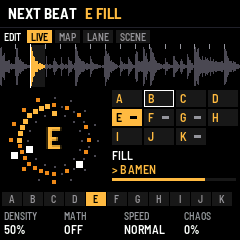
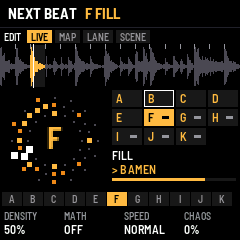
MATHCORE: better fills, triplet snare rolls, a snare-heavy groove
Laurens: better fills, rollers with triplet snares, one with more snares.

- scenes reworked (MCS5): SNARE ROLLER (triplet hats, a triplet snare roll every
  second bar), SNARES (snares everywhere, a roll every bar), FILL (builds into a
  beat of triplet snares), TRIPLET ROLL, SNARE RUSH (8ths to 64ths), CHOP FILL,
  TRIPLET ROLLER, plus the grooves, riser and drop
- triplet rolls: a snare lane at 1/8 with ratchet x3; the PERC lane can be a
  second snare lane
- a roll owns the break's voice until it ends: hats can't cut it; it wins ties
- SWELL: a lane climbs and swells without speeding up

Claude-Session: https://claude.ai/code/session_01YWuRNtShpoWxrtcHmPbuCP

diff --git a/app/app.c b/app/app.c
@@ -274,7 +274,7 @@ static void pat_read_back(void)          /* the engine's steps into the pattern 
 /* ----------------------------------------------------------------- MATHCORE --- */
 /* the scenes (A..P: four sample lanes each, docs/PRD_MATHCORE.md 6.1) in their own store object; the queue and the
  * black keys' shortcuts in another (the queue names scenes: one scene, queued as often as wanted) */
-#define MCS_MAGIC 0x3453434Du            /* "MCS4" (the lanes vary by themselves, 23 Nov 2026: the presets again) */
+#define MCS_MAGIC 0x3553434Du            /* "MCS5" (more fills, triplet snare rolls, 23 Nov 2026: the presets again) */
 #define MQ_MAGIC 0x3151434Du             /* "MCQ1" */
 #define MC_QUEUE 64u
 #define MC_NOKEY 0xFFu                   /* a black key with no scene */
@@ -318,62 +318,103 @@ static void mc_lane_defaults(mc_lane_t *l, uint32_t role)
  * from the black keys. A lane is a string: x a hit, X an accented one, . none (its length the string's). They re-cut
  * the break on its own voice: the grooves run on into the break between their hits (MCS_BREAK), the fills, the riser
  * and the drop are dry chops; L..P are the grooves dry */
-static const char *const MC_NAME[] = {"", "ROLLER", "AMEN", "STEPPER", "MATH 5/7", "FILL", "CHOP FILL", "RISER",
-                                      "BREAKDOWN", "DOUBLE", "7/8 BOUNCE", "DROP", "ROLLER CHOP", "AMEN CHOP",
-                                      "MATH CHOP", "DOUBLE CHOP", "BOUNCE CHOP"};
+static const char *const MC_NAME[] = {"", "ROLLER", "AMEN", "SNARE ROLLER", "SNARES", "MATH 5/7", "FILL",
+                                      "TRIPLET ROLL", "SNARE RUSH", "CHOP FILL", "RISER", "DROP", "STEPPER",
+                                      "DOUBLE", "7/8 BOUNCE", "BREAKDOWN", "TRIPLET ROLLER"};
 #define MC_NNAMES (sizeof MC_NAME / sizeof MC_NAME[0])
 typedef struct {
-    uint8_t name, bars, flags;
+    uint8_t bars, flags;
+    uint8_t prole;                       /* the PERC lane's role + 1 (0: PERC): a second snare lane for the rolls */
     struct {
         const char *p;                   /* 0: the lane off */
         uint8_t rate, mode, prob, ratchet, level;
         int8_t rise;
-        uint8_t rev;
+        uint8_t fl;                      /* MCL_REV, MCL_SWELL */
     } l[MC_LANES];
 } mc_preset_t;
-#define L_(p, r, m, pr, ra, lv, ri, rv) {p, r, m, pr, ra, lv, ri, rv}
+#define L_(p, r, m, pr, ra, lv, ri, f) {p, r, m, pr, ra, lv, ri, f}
 #define OFF_ {0, MCR_16, 0, 100, 1, 100, 0, 0}
-static const mc_preset_t MC_PRESET[11] = {
-    {1, 2, MCS_BREAK, {L_("X.........X.....", MCR_16, MCM_FIXED, 100, 1, 100, 0, 0),
-               L_("....X.......X...", MCR_16, MCM_ALT, 100, 1, 100, 0, 0),
-               L_("X.xxX.x.X.xxX.xx", MCR_16, MCM_ROUND, 100, 1, 80, 0, 0),
-               L_("..............x.", MCR_16, MCM_ROUND, 60, 1, 70, 0, 0)}},
-    {2, 2, MCS_BREAK, {L_("X.X.......XX....", MCR_16, MCM_FIXED, 100, 1, 100, 0, 0),
-               L_("....X..x.x..X..x", MCR_16, MCM_ACCENT, 100, 1, 100, 0, 0),
-               L_("XxxxXxxxXxxxXxXx", MCR_16, MCM_ROUND, 90, 1, 75, 0, 0), OFF_}},
-    {3, 2, MCS_BREAK, {L_("X.........X.....X.....X.........", MCR_16, MCM_FIXED, 100, 1, 100, 0, 0),
-               L_("........X...............X.......", MCR_16, MCM_FIXED, 100, 1, 100, 0, 0),
-               L_("X.x.X.xxX.x.X.xx", MCR_16, MCM_ROUND, 100, 1, 75, 0, 0),
-               L_("...x.......x..x.", MCR_16, MCM_RANDOM, 50, 1, 70, 0, 0)}},
-    {4, 4, MCS_BREAK, {L_("X..x.", MCR_16, MCM_FIXED, 100, 1, 100, 0, 0),
-               L_("....X..", MCR_16, MCM_ALT, 100, 1, 100, 0, 0),
-               L_("x.xx.x.xx.x", MCR_32, MCM_RANDOM, 100, 1, 65, 0, 0),
-               L_("x..x..x..x.x.", MCR_16, MCM_ROUND, 100, 1, 80, 0, 0)}},
-    {5, 1, MCS_ONCE, {L_("X...............", MCR_16, MCM_FIXED, 100, 1, 100, 0, 0),
-                      L_("x.x.x.x.x.x.x.x.xxxxxxxxXXXXXXXX", MCR_32, MCM_ACCENT, 100, 1, 100, 3, 0),
-                      OFF_,
-                      L_("........x.x.xxxx", MCR_16, MCM_ROUND, 100, 2, 80, 0, 0)}},
-    {6, 1, MCS_ONCE, {L_("X..X..X..X..X.X.", MCR_16, MCM_FIXED, 100, 1, 100, 0, 0),
-                      L_("..X..X..X..X.XXX", MCR_16, MCM_RANDOM, 85, 2, 100, 0, 0),
-                      L_("xxxxxxxxxxxxxxxxxxxxxxxx", MCR_32T, MCM_RANDOM, 60, 1, 70, 0, 0), OFF_}},
-    {7, 4, MCS_ONCE, {L_("X...X...X.X.XXXX", MCR_4, MCM_FIXED, 100, 1, 100, 0, 0),
-                      L_("X", MCR_8, MCM_ROUND, 100, 1, 100, 12, 0),
-                      L_("x", MCR_8, MCM_ROUND, 100, 1, 60, 7, 0), OFF_}},
-    {8, 4, MCS_BREAK, {L_("X...............X...............", MCR_8, MCM_FIXED, 100, 1, 100, 0, 0), OFF_,
-                       L_("x..", MCR_8T, MCM_ROUND, 100, 1, 55, 0, 0),
-                       L_("x....", MCR_8, MCM_RANDOM, 100, 1, 60, 0, 0)}},
-    {9, 2, MCS_BREAK, {L_("X..X..X.", MCR_16, MCM_FIXED, 100, 1, 100, 0, 0),
-               L_("....X..x....X.x.", MCR_16, MCM_ALT, 100, 1, 100, 0, 0),
-               L_("XxxxXxxXxxXxXxxx", MCR_32, MCM_ROUND, 100, 1, 70, 0, 0),
-               L_("x.....", MCR_16T, MCM_ROUND, 100, 1, 75, 0, 0)}},
-    {10, 2, MCS_BREAK, {L_("X..X.X.", MCR_16, MCM_FIXED, 100, 1, 100, 0, 0),
-                L_("...X......X...", MCR_16, MCM_FIXED, 100, 1, 100, 0, 0),
-                L_("x.xx.xx.xx.x", MCR_16T, MCM_RANDOM, 100, 1, 70, 0, 0),
-                L_("x...x.x..", MCR_16, MCM_ROUND, 70, 1, 75, 0, 0)}},
-    {11, 1, MCS_ONCE, {L_("X...............", MCR_16, MCM_FIXED, 100, 1, 100, 0, 0),
-                       L_("X...............", MCR_16, MCM_FIXED, 100, 1, 100, 0, 0), OFF_,
-                       L_("........X.......", MCR_16, MCM_FIXED, 100, 1, 100, 0, 1)}},
+#define SN_ (ROLE_SNARE + 1u)
+#define RUN MCS_BREAK
+#define ONCE MCS_ONCE
+/* A..K on the black keys: five grooves, four fills, the riser, the drop; L..P more grooves (SCENE puts them on a
+ * key). The triplet rolls are a snare lane at 1/8 with ratchet x3: each of its hits three 1/16T snares. A fill keeps
+ * its climax in its second half: launched late in a bar (it plays from where the bar is) it still lands */
+static const mc_preset_t MC_PRESET[MC_SCENES] = {
+    /* A ROLLER */
+    {2, RUN, 0, {L_("X.........X.....", MCR_16, MCM_FIXED, 100, 1, 100, 0, 0),
+                 L_("....X.......X...", MCR_16, MCM_ALT, 100, 1, 100, 0, 0),
+                 L_("X.xxX.x.X.xxX.xx", MCR_16, MCM_ROUND, 100, 1, 80, 0, 0),
+                 L_("..............x.", MCR_16, MCM_ROUND, 60, 1, 70, 0, 0)}},
+    /* B AMEN */
+    {2, RUN, 0, {L_("X.X.......XX....", MCR_16, MCM_FIXED, 100, 1, 100, 0, 0),
+                 L_("....X..x.x..X..x", MCR_16, MCM_ACCENT, 100, 1, 100, 0, 0),
+                 L_("XxxxXxxxXxxxXxXx", MCR_16, MCM_ROUND, 90, 1, 75, 0, 0), OFF_}},
+    /* C SNARE ROLLER: a shuffling roller, a triplet snare roll closing every second bar (and a pickup roll) */
+    {2, RUN, SN_, {L_("X.........X.....X.........X.x...", MCR_16, MCM_FIXED, 100, 1, 100, 0, 0),
+                   L_("....X.......X...", MCR_16, MCM_ALT, 100, 1, 100, 0, 0),
+                   L_("X.xX.xX.xX.xX.xX.xX.xX.x", MCR_16T, MCM_ROUND, 100, 1, 70, 0, 0),
+                   L_("...........x..XX", MCR_8, MCM_ROUND, 100, 3, 85, 0, 0)}},
+    /* D SNARES: snares everywhere, round all the break's snare hits, a triplet roll every bar's end */
+    {2, RUN, SN_, {L_("X.........X.....", MCR_16, MCM_FIXED, 100, 1, 100, 0, 0),
+                   L_("..x.X.xx.xx.X.xx", MCR_16, MCM_ROUND, 100, 1, 100, 0, 0),
+                   L_("X...x...X...x...", MCR_16, MCM_ROUND, 100, 1, 60, 0, 0),
+                   L_("......xX", MCR_8, MCM_ACCENT, 100, 3, 90, 0, 0)}},
+    /* E MATH 5/7 */
+    {4, RUN, 0, {L_("X..x.", MCR_16, MCM_FIXED, 100, 1, 100, 0, 0),
+                 L_("....X..", MCR_16, MCM_ALT, 100, 1, 100, 0, 0),
+                 L_("x.xx.x.xx.x", MCR_32, MCM_RANDOM, 100, 1, 65, 0, 0),
+                 L_("x..x..x..x.x.", MCR_16, MCM_ROUND, 100, 1, 80, 0, 0)}},
+    /* F FILL: two beats of groove, a beat building in triplets, a beat of full triplet snares, climbing */
+    {1, ONCE, 0, {L_("X.......X.......", MCR_16, MCM_FIXED, 100, 1, 100, 0, 0),
+                  L_("x..x..X..x.xx.xXxxXxXXXX", MCR_16T, MCM_ACCENT, 100, 1, 100, 4, MCL_SWELL),
+                  OFF_,
+                  L_("........x.x..x.x", MCR_16, MCM_ROUND, 100, 1, 70, 0, 0)}},
+    /* G TRIPLET ROLL: a bar of triplet snares, swelling and climbing a fourth */
+    {1, ONCE, 0, {L_("X...............", MCR_16, MCM_FIXED, 100, 1, 100, 0, 0),
+                  L_("xxxxXXXX", MCR_8, MCM_ACCENT, 100, 3, 100, 5, MCL_SWELL), OFF_, OFF_}},
+    /* H SNARE RUSH: one snare an 8th, then 16ths, 32nds, 64ths: the classic roll into the drop */
+    {1, ONCE, 0, {L_("X...............", MCR_16, MCM_FIXED, 100, 1, 100, 0, 0),
+                  L_("X", MCR_8, MCM_ROUND, 100, 1, 100, 7, 0), OFF_, OFF_}},
+    /* I CHOP FILL: 3-3-3-3-2-2 cuts, snares answering with flams */
+    {1, ONCE, 0, {L_("X..X..X..X..X.X.", MCR_16, MCM_FIXED, 100, 1, 100, 0, 0),
+                  L_("..X..X..X..X.XXX", MCR_16, MCM_ROUND, 100, 2, 100, 0, 0),
+                  L_("x.x.x.x.x.x.x.x.x.x.x.x.", MCR_16T, MCM_RANDOM, 60, 1, 60, 0, 0), OFF_}},
+    /* J RISER: 4 bars, the snares from 1/8 to 1/64, the hats behind them */
+    {4, ONCE, 0, {L_("X...X...X.X.XXXX", MCR_4, MCM_FIXED, 100, 1, 100, 0, 0),
+                  L_("X", MCR_8, MCM_ROUND, 100, 1, 100, 12, 0),
+                  L_("x", MCR_8, MCM_ROUND, 100, 1, 60, 7, 0), OFF_}},
+    /* K DROP: one hit, a slice backwards into the space */
+    {1, ONCE, 0, {L_("X...............", MCR_16, MCM_FIXED, 100, 1, 100, 0, 0),
+                  L_("X...............", MCR_16, MCM_FIXED, 100, 1, 100, 0, 0), OFF_,
+                  L_("........X.......", MCR_16, MCM_FIXED, 100, 1, 100, 0, MCL_REV)}},
+    /* L STEPPER (half time) */
+    {2, RUN, 0, {L_("X.........X.....X.....X.........", MCR_16, MCM_FIXED, 100, 1, 100, 0, 0),
+                 L_("........X...............X.......", MCR_16, MCM_FIXED, 100, 1, 100, 0, 0),
+                 L_("X.x.X.xxX.x.X.xx", MCR_16, MCM_ROUND, 100, 1, 75, 0, 0),
+                 L_("...x.......x..x.", MCR_16, MCM_RANDOM, 50, 1, 70, 0, 0)}},
+    /* M DOUBLE: 3-3-2 kicks, 1/32 hats */
+    {2, RUN, 0, {L_("X..X..X.", MCR_16, MCM_FIXED, 100, 1, 100, 0, 0),
+                 L_("....X..x....X.x.", MCR_16, MCM_ALT, 100, 1, 100, 0, 0),
+                 L_("XxxxXxxXxxXxXxxx", MCR_32, MCM_ROUND, 100, 1, 70, 0, 0),
+                 L_("x.....", MCR_16T, MCM_ROUND, 100, 1, 75, 0, 0)}},
+    /* N 7/8 BOUNCE */
+    {2, RUN, 0, {L_("X..X.X.", MCR_16, MCM_FIXED, 100, 1, 100, 0, 0),
+                 L_("...X......X...", MCR_16, MCM_FIXED, 100, 1, 100, 0, 0),
+                 L_("x.xx.xx.xx.x", MCR_16T, MCM_RANDOM, 100, 1, 70, 0, 0),
+                 L_("x...x.x..", MCR_16, MCM_ROUND, 70, 1, 75, 0, 0)}},
+    /* O BREAKDOWN: a sparse pulse, the break running on between */
+    {4, RUN, 0, {L_("X...............X...............", MCR_8, MCM_FIXED, 100, 1, 100, 0, 0), OFF_,
+                 L_("x..", MCR_8T, MCM_ROUND, 100, 1, 55, 0, 0),
+                 L_("x....", MCR_8, MCM_RANDOM, 100, 1, 60, 0, 0)}},
+    /* P TRIPLET ROLLER: all in triplets, a triplet snare roll every second bar */
+    {2, RUN, SN_, {L_("X.....X..X..X.....X.X...", MCR_8T, MCM_FIXED, 100, 1, 100, 0, 0),
+                   L_("...X.....X..", MCR_8T, MCM_ALT, 100, 1, 100, 0, 0),
+                   L_("X.xX.xX.xX.xX.xX.xX.xX.x", MCR_16T, MCM_ROUND, 100, 1, 70, 0, 0),
+                   L_("..............XX", MCR_8, MCM_ACCENT, 100, 3, 90, 0, 0)}},
 };
+#undef RUN
+#undef ONCE
 static void mc_lane_from(mc_lane_t *L, const char *p)   /* a lane's hits and accents from its string */
 {
     uint32_t e;
@@ -388,19 +429,19 @@ static void mc_lane_from(mc_lane_t *L, const char *p)   /* a lane's hits and acc
 }
 static void mc_scene_defaults(mc_scene_t *s, uint32_t i)
 {
-    const mc_preset_t *p = &MC_PRESET[i < 11u ? i : i == 11u ? 0u : i == 12u ? 1u : i == 13u ? 3u : i == 14u ? 8u : 9u];
+    const mc_preset_t *p = &MC_PRESET[i % MC_SCENES];
     uint32_t l;
     s->bars = p->bars;
-    s->flags = (uint8_t)(i >= 11u ? p->flags & ~MCS_BREAK : p->flags);   /* L..P: the grooves, dry chops */
-    s->name = (uint8_t)(i < 11u ? p->name : 12u + (i - 11u));
+    s->flags = p->flags;
+    s->name = (uint8_t)(i % MC_SCENES + 1u);
     s->rsv = 0u;
     for (l = 0; l < MC_LANES; l++) {
         mc_lane_t *L = &s->lane[l];
-        mc_lane_defaults(L, l);
+        mc_lane_defaults(L, l == 3u && p->prole ? p->prole - 1u : l);
         if (!p->l[l].p)
             continue;
         mc_lane_from(L, p->l[l].p);
-        L->flags = (uint8_t)(MCL_ON | (p->l[l].rev ? MCL_REV : 0u));
+        L->flags = (uint8_t)(MCL_ON | p->l[l].fl);
         L->rate = p->l[l].rate;
         L->mode = p->l[l].mode;
         L->prob = p->l[l].prob;
@@ -408,12 +449,13 @@ static void mc_scene_defaults(mc_scene_t *s, uint32_t i)
         L->level = p->l[l].level;
         L->rise = p->l[l].rise;
         L->seed = (uint8_t)(L->seed + i * 13u);
-        if (L->rise)
-            L->vary = 0u;                /* (a riser stays a riser) */
+        if (L->rise || L->ratchet > 2u)
+            L->vary /= 3u;               /* (a roll or a riser stays one: a touch of velocity only) */
         else if (p->flags & MCS_ONCE)
             L->vary /= 2u;               /* (a fill is busy already) */
     }
 }
+
 static void mc_defaults(void)
 {
     uint32_t i;

diff --git a/app/dsp/brk.c b/app/dsp/brk.c
@@ -572,7 +572,8 @@ static int loop_sounds(void)
     return mc_cur < 0 || !sc || (sc[mc_cur].flags & MCS_BREAK);
 }
 
-static uint8_t mr_flags[MC_LANES], mr_gate[MC_LANES];
+static uint8_t mr_flags[MC_LANES], mr_gate[MC_LANES], mr_score[MC_LANES];
+static uint32_t mr_hold[MC_LANES];       /* a roll (a ratchet) owns the voice until this master tick */
 static float mr_pitch[MC_LANES];
 /* slice s on the break's voice (the one sound playing, its fade the cut): at gain, backwards, gate % of it, at pitch
  * semitones; it runs on into the break when the scene asks (loop_sounds), else it ends with its slice. A key looping
@@ -647,6 +648,7 @@ static void mc_begin(int32_t s)          /* scene s from this step */
         if (!sc || mc_cur < 0 || !(sc[mc_cur].lane[l].flags & MCL_FREE))
             mc_n[l] = 0u;
         mr_count[l] = 0u;
+        mr_hold[l] = 0u;
     }
 }
 
@@ -718,7 +720,7 @@ static void mc_tick(const brk_break_t *b, uint32_t t, float sl)
             r *= 2u;
         else if (spd > 66u && r > 4u)
             r /= 2u;
-        if (L->rise) {                   /* a riser: faster each quarter of the phrase */
+        if (L->rise && !(L->flags & MCL_SWELL)) {   /* a riser: faster each quarter of the phrase */
             uint32_t q = (mc_steps ? mc_steps - 1u : 0u) * 4u / (bars_of(sc) * BRK_STEPS_PER_BAR);
             r >>= q > 3u ? 3u : q;
             if (r < 3u)
@@ -809,7 +811,8 @@ static void mc_tick(const brk_break_t *b, uint32_t t, float sl)
         }
         mc_hitc[l]++;                    /* (each lane's event counts; one of them is heard) */
         {
-            uint32_t sc_ = ghost ? 0u : (acc ? 8u : 0u) + PRIO[role];   /* (a ghost never cuts a real hit) */
+            uint32_t sc_ = ghost ? 0u : (acc ? 16u : 0u) + PRIO[role] * 2u + (rat > 1u);   /* (a ghost never cuts
+                                          * a real hit; a roll wins over a single hit of the same weight) */
             if (sc_ > win_score || win < 0) {
                 win = (int32_t)l;
                 win_score = sc_;
@@ -825,7 +828,11 @@ static void mc_tick(const brk_break_t *b, uint32_t t, float sl)
     }
     if (win < 0)
         return;
+    for (k = 0; k < MC_LANES; k++)       /* a roll (a ratchet) under way outranks a lighter hit: it rolls on */
+        if (mr_hold[k] > t && mr_score[k] > win_score)
+            return;
     l = (uint32_t)win;                   /* the one heard: the break's voice cut to it */
+    mr_score[l] = (uint8_t)win_score;
     mr_flags[l] = win_fl;
     mr_gate[l] = (uint8_t)(sc->lane[l].gate ? sc->lane[l].gate : 100u);
     mr_pitch[l] = win_pt;
@@ -833,6 +840,7 @@ static void mc_tick(const brk_break_t *b, uint32_t t, float sl)
         mr_count[k] = 0u;
     if (win_late >= 1.0f && win_rat < 2u) {   /* laid back: the hit a little later (the ratchet's timer) */
         mr_count[l] = 1u;
+        mr_hold[l] = 0u;
         mr_left[l] = mr_len[l] = win_late;
         mr_slice[l] = win_s;
         mr_gain[l] = win_g;
@@ -840,6 +848,7 @@ static void mc_tick(const brk_break_t *b, uint32_t t, float sl)
     }
     chop_hit(b, win_s, win_g, (win_fl & MCL_REV) != 0u, mr_gate[l], win_pt);
     mr_count[l] = win_rat > 1u ? (win_rat > 4u ? 3u : win_rat - 1u) : 0u;
+    mr_hold[l] = mr_count[l] ? t + win_r : 0u;
     if (mr_count[l]) {                   /* the event's other hits, evenly inside it */
         mr_len[l] = (float)win_r * (1.0f / (float)MC_TICKS) * sl / (float)(mr_count[l] + 1u);
         mr_left[l] = mr_len[l];
@@ -1386,6 +1395,7 @@ BRK_COLD void brk_init(void)
         uint32_t l;
         for (l = 0; l < MC_LANES; l++) {
             mr_count[l] = 0u;
+            mr_hold[l] = 0u;
             mc_n[l] = 0u;
             mc_pos[l] = 0u;
         }

diff --git a/tests/engine/test_engine.c b/tests/engine/test_engine.c
@@ -2241,6 +2241,38 @@ static void test_mc_play(void)
         brk_play(0);
         mc_run(BLOCK * 8u, 0, 0);
     }
+    /* a triplet roll: a snare lane at 1/8 with ratchet x3 under hats at 1/16T: 24 snare hits a bar, the hats
+     * between never cutting it short; SWELL climbs without speeding up */
+    {
+        uint32_t snares = 0u, last = 0u, t2, rolls;
+        mc_scene_init(&mc_sc[5], 1u);
+        mc_sc[5].lane[1].flags = MCL_ON | MCL_SWELL;
+        mc_sc[5].lane[1].hits = 0xFFu;
+        mc_sc[5].lane[1].len = 8u;
+        mc_sc[5].lane[1].rate = MCR_8;
+        mc_sc[5].lane[1].ratchet = 3u;
+        mc_sc[5].lane[1].rise = 5;
+        mc_sc[5].lane[2].flags = MCL_ON;
+        mc_sc[5].lane[2].hits = 0xFFFFFFu;
+        mc_sc[5].lane[2].len = 24u;
+        mc_sc[5].lane[2].rate = MCR_16T;
+        brk_mc_start(5);
+        brk_mc_next(5);
+        mc_zero_counts();
+        brk_play(1);
+        for (t2 = 0; t2 < 16u * sl; t2 += 64u) {   /* the voice's slice every 64 samples: a snare's */
+            mc_run(64u, 0, 0);
+            brk_status(&st);
+            snares += st.slice >= 0 && (r[st.slice] >> ROLE_SNARE & 1u);
+            last++;
+        }
+        CHECK(snares * 100u >= last * 97u, "triplet roll: the hats never cut it (%u of %u looks a snare)", snares, last);
+        mc_count();
+        rolls = mc_hits_total[1];
+        CHECK(rolls == 8u, "triplet roll: 8 events a bar (x3: 24 triplet snares), SWELL not speeding up (%u)", rolls);
+        brk_play(0);
+        mc_run(BLOCK * 8u, 0, 0);
+    }
     /* VARY: a snare lane on 5 and 13 grows ghost notes round them, never the same bar twice, the same run twice */
     {
         static float a1[4u * 44100u], a2[4u * 44100u];

diff --git a/app/dsp/brk.h b/app/dsp/brk.h
@@ -164,6 +164,8 @@ extern const char *const MC_MODE_NAME[MC_MODES];
 #define MCL_ON 1u                        /* the lane plays in its scene */
 #define MCL_REV 2u                       /* its slices backwards */
 #define MCL_FREE 4u                      /* it counts from the transport's start, not the scene's (no reset) */
+#define MCL_SWELL 8u                     /* its RISE climbs and swells over the phrase without speeding up (a roll
+                                          * that builds) */
 typedef struct {
     uint32_t hits;                       /* bit e: an event at e */
     uint32_t accent;                     /* bit e: e accented (no accents at all: every hit full) */

diff --git a/README.md b/README.md
@@ -62,7 +62,7 @@ device; MATHCORE ([its PRD](docs/PRD_MATHCORE.md)) is on the `mathcore` branch, 
 | LFO | **MIXER**: K1 break level · K4 **FX** (the whole effects chain, dry to wet), with meters · **LFO again**: K1 swing |
 | ARP | **EFFECT PADS**: the white keys play slices, each black key holds an effect of the FX library over everything (FILTER, CRUNCH, DRIVE, FLANGER, TREMOLO, TAPE, DELAY, REVERB …), on while held; **SEL + a black key** holds it on (any page). The key pressed last (or ALGORITHM) is shown in the FX page's view: PRESETS its effect, K1–K3 its settings, K4 its mix, ARP again its MORE and MOD parts; four sound at once · SEL + ARP: a random pattern |
 | FX | The **master FX chain**: four slots in series. ALGORITHM (or FX again) picks a slot, PRESETS puts an effect in it (FILTER, CRUNCH, DRIVE, PUNCH, FLANGER, RING MOD, TREMOLO, REVERB, DELAY, EQ, TAPE, MB COMP, CLIP, or EMPTY), K1–K3 its settings and K4 its mix, SEL + FX bypasses it, FX held + ALGORITHM moves it along the chain. Every effect shows itself live (its response, a tone through it, its decay or its echoes) with its level in and out, and FX again steps its parts: MORE (extra knobs of its own) and MOD (a tempo-synced or envelope modulator on any of its settings); MB COMP has six parts (amounts, each band's threshold, ratio, attack and release, gains and solo, the splits, knee and output) |
-| EDIT | **MATHCORE**: play the break as an instrument (EDIT again: the next part). **LIVE**: eleven ready scenes on the black keys (grooves, fills, a riser, a breakdown, a drop, of different lengths): tap one and it comes in (a groove on the next bar, a fill on the next beat and then back), hold it and it plays while held (a scene re-cuts the break on its own voice: nothing is laid over it); K1 DENSITY · K2 MATH (straight beats to 5 / 7 / 11 / 13 polyrhythms) · K3 SPEED (half / double) · K4 CHAOS; a wheel of turning rings shows the lanes; SEL + a black key chains scenes into a song. **MAP**: the Slice Map, heard from the break (nothing to set). **LANE** and **SCENE**: edit a scene if you want to |
+| EDIT | **MATHCORE**: play the break as an instrument (EDIT again: the next part). **LIVE**: eleven ready scenes on the black keys (rollers, a snare-heavy groove, triplet snare rolls, fills, a snare rush, a riser, a drop, of different lengths): tap one and it comes in (a groove on the next bar, a fill on the next beat and then back), hold it and it plays while held (a scene re-cuts the break on its own voice: nothing is laid over it); K1 DENSITY · K2 MATH (straight beats to 5 / 7 / 11 / 13 polyrhythms) · K3 SPEED (half / double) · K4 CHAOS; a wheel of turning rings shows the lanes; SEL + a black key chains scenes into a song. **MAP**: the Slice Map, heard from the break (nothing to set). **LANE** and **SCENE**: edit a scene if you want to |
 | GLO | GLOBAL: K1 MIDI clock in (follow tempo and start / stop), K2 clock out (24 ppqn, start / stop), K3 Bluetooth MIDI on / off (shows up as "CHOPPAH XXXX" in a MIDI app's Bluetooth page), K4 where MIDI goes (USB, Bluetooth, both). **GLO again** (or ALGORITHM): K1 pitch KEEP LENGTH (the default: pitch without changing the slices' length) or SPEED (the classic repitch), K2 grain size, K3 **snap**: where a key pressed while playing lands (OFF, 1/8, 1/4, 1/2, 1, 2, 4 slices), K4 **RESET ALL** (turn twice: every setting and pattern back to the start, pairings kept). **GLO a third time**: CHANNEL, the MIDI channel and what goes out |
 | SAVE | Keep the settings and the 16 patterns (a newer version keeps them: new settings start at their defaults) |
 

diff --git a/app/docs/MANUAL.md b/app/docs/MANUAL.md
@@ -606,11 +606,16 @@ it plays once), the scene's name, what comes next, the phrase so far and the cha
 | SEL + REC | Clears the chain (the groove plays on) |
 | ALGORITHM · PRESETS | The chain's entry pointed at · moved a place later or earlier |
 
-The scenes as they come: **A** ROLLER, **B** AMEN, **C** STEPPER (half time, 2 bars), **D** MATH 5/7 (5, 7, 11, 13
-against the bar, 4 bars), **E** FILL (a snare roll that climbs), **F** CHOP FILL, **G** RISER (4 bars: the snares
-speed up from 1/8 to 1/64 and climb an octave), **H** BREAKDOWN (the break under a sparse pulse, 4 bars), **I**
-DOUBLE (3-3-2 kicks, 1/32 hats), **J** 7/8 BOUNCE, **K** DROP (one hit, a reversed slice, space). L–P are grooves with
-the break under them. E, F, G and K play once; the others loop. The macros are kept with SAVE.
+The scenes as they come, on the black keys: **A** ROLLER, **B** AMEN, **C** SNARE ROLLER (a shuffling roller with
+triplet hats, a triplet snare roll closing every second bar), **D** SNARES (snares everywhere, round all the break's
+snare hits, a triplet roll at every bar's end), **E** MATH 5/7 (5, 7, 11, 13 against the bar, 4 bars); the fills
+**F** FILL (two beats of groove, a beat building in triplets, a beat of triplet snares, climbing), **G** TRIPLET ROLL
+(a bar of triplet snares swelling up a fourth), **H** SNARE RUSH (8ths, 16ths, 32nds, 64ths: the roll into the
+drop), **I** CHOP FILL (3-3-3-3-2-2 cuts, flammed snares); **J** RISER (4 bars) and **K** DROP. On SCENE you can put
+the others on a key: **L** STEPPER (half time), **M** DOUBLE, **N** 7/8 BOUNCE, **O** BREAKDOWN, **P** TRIPLET ROLLER
+(all in triplets, a roll every second bar). F–K play once; the others loop. The fills keep their climax in their
+second half, so one launched late in a bar (it comes in on the next beat, where the bar is) still lands. A roll owns
+the break's voice until it's done: hats under it never cut it short. The macros are kept with SAVE.
 
 ### MAP: the Slice Map
 

diff --git a/docs/PRD_MATHCORE.md b/docs/PRD_MATHCORE.md
@@ -573,3 +573,16 @@ Laurens: the patterns should sound more natural, more variation in the hats and 
 | MM-N-002 | The presets: VARY by role (hat 70, snare 60, perc 45, kick 20; ONCE scenes half, risers 0); hat lines with accent shapes instead of flat 16ths, the AMEN hats round-robin instead of random, snares alternating between the break's snare hits. Store magic MCS4 | Done |
 | MM-N-003 | LANE MORE: ROLE, RISE, REVERSE, LANE (SEED left the panel; VARY's seed is the lane's own) | Done |
 
+---
+
+## 18. Revision: fills and triplet snare rolls (23 Nov 2026)
+
+Laurens: better fills, rollers with triplet snares, and one with more snares.
+
+| ID | Requirement | State |
+| --- | --- | --- |
+| MM-F-001 | **The scenes reworked** (`MC_PRESET`, one per scene, store magic MCS5). On the keys: A ROLLER, B AMEN, C SNARE ROLLER (triplet hats, a triplet snare roll closing every second bar, a pickup roll), D SNARES (snares on most 16ths round all the break's snare slices, a triplet roll every bar), E MATH 5/7, F FILL, G TRIPLET ROLL, H SNARE RUSH, I CHOP FILL, J RISER, K DROP; L STEPPER, M DOUBLE, N 7/8 BOUNCE, O BREAKDOWN, P TRIPLET ROLLER (all triplets) | Done |
+| MM-F-002 | **Triplet rolls**: a SNARE lane at 1/8 with ratchet ×3 (each hit three 1/16T snares); the PERC lane can take another role (`prole`) so a scene has two snare lanes | Done |
+| MM-F-003 | **A roll owns the voice** until its event ends (`mr_hold`): a lighter hit (the hats) at the ratchet's ticks is dropped, not cutting the roll; a roll beats a single hit of the same weight | Done; engine test: hats at 1/16T never cut a bar of triplet snares |
+| MM-F-004 | **SWELL** (`MCL_SWELL`): a lane's RISE climbs and swells over the phrase without speeding up (F FILL, G TRIPLET ROLL); the fills keep their climax in their second half so a late launch still lands; rolls and risers keep a third of their VARY | Done |
+
